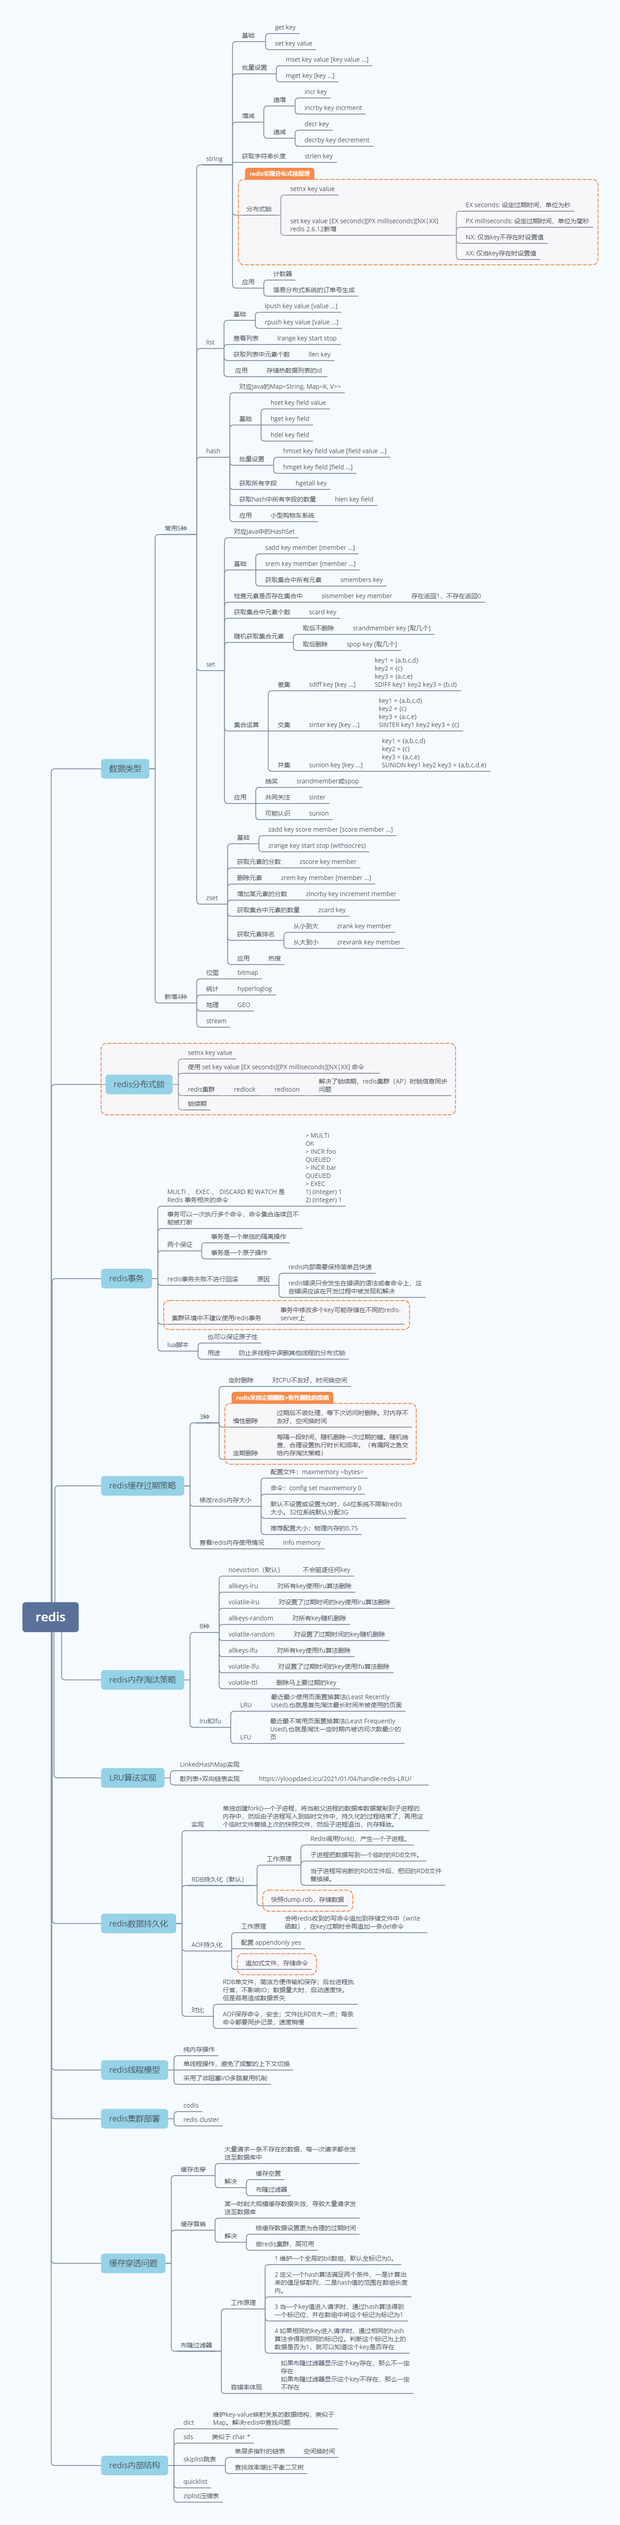
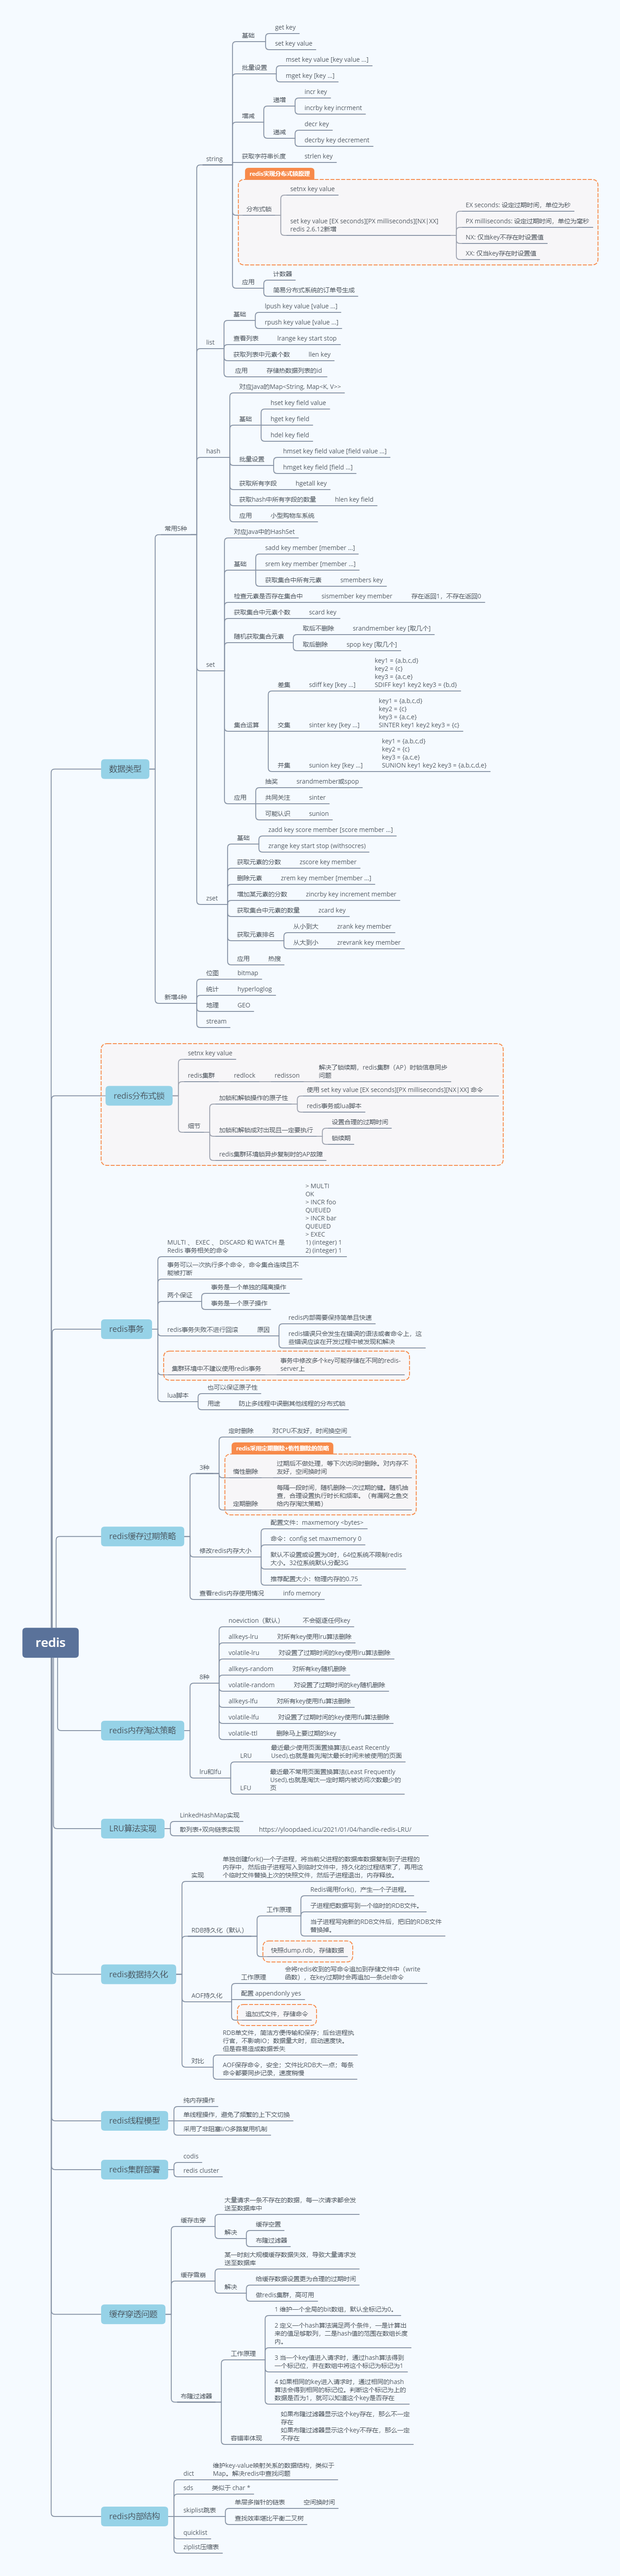
20210203

diff --git a/src/main/java/com/yy/guava/GuavaTest.java b/src/main/java/com/yy/guava/GuavaTest.java
@@ -7,6 +7,7 @@ import com.google.common.collect.ImmutableList;
 import com.google.common.collect.Lists;
 
 import java.util.*;
+import java.util.Optional;
 import java.util.concurrent.ExecutionException;
 import java.util.concurrent.TimeUnit;
 
@@ -74,8 +75,8 @@ public class GuavaTest {
         });
 
         // 将list连接成string
-        String join1 = Joiner.on(";").skipNulls().join(split);
-        System.out.println("join1 = " + join1);
+        String join = Joiner.on(";").skipNulls().join(split);
+        System.out.println("join = " + join);
         // StringBuilder stringBuilder = joiner.appendTo(new StringBuilder(), "a", "b");
         // System.out.println("stringBuilder.toString() = " + stringBuilder.toString());
     }

diff --git a/src/main/java/com/yy/guava/CacheTest.java b/src/main/java/com/yy/guava/CacheTest.java
@@ -15,7 +15,7 @@ public class CacheTest {
     private CacheLoader cacheLoader = new CacheLoader<String, String>() {
         // 如果找不到元素，会调用这里
         @Override
-        public String  load(String key) {
+        public String load(String key) {
             System.out.println("没有找到 = " + key);
             /**
              * 模拟：去数据库查询/远程调用

diff --git a/src/main/java/com/yy/collection/ArrayStream.java b/src/main/java/com/yy/collection/ArrayStream.java
@@ -48,6 +48,5 @@ public class ArrayStream {
         random.ints().limit(3).sorted().forEach(System.out::println);
 
 
-
     }
 }

diff --git a/README.md b/README.md
@@ -144,9 +144,9 @@ JPP - Java Promotion Process 是一个Java能力提升的计划，与君共勉
 
 ![网络通信](https://github.com/YorickYu/Java_IO_summary/blob/main/images/IO.png)
 
-#### 常见面试知识点整理
+#### Redis
 
-最新更新：Redis相关
+最新更新：Redis分布式锁细节补充
 
 ![interview](https://github.com/YorickYu/Java_Redis_summary/blob/main/images/redis-xmind.png)
 

diff --git a/Redis-xmind/README.md b/Redis-xmind/README.md
@@ -1,3 +1,5 @@
 #### Redis
 
+更新：Redis分布式锁细节补充
+
 ![Redis](https://github.com/YorickYu/JPP/blob/main/Redis-xmind/redis-xmind.png)
